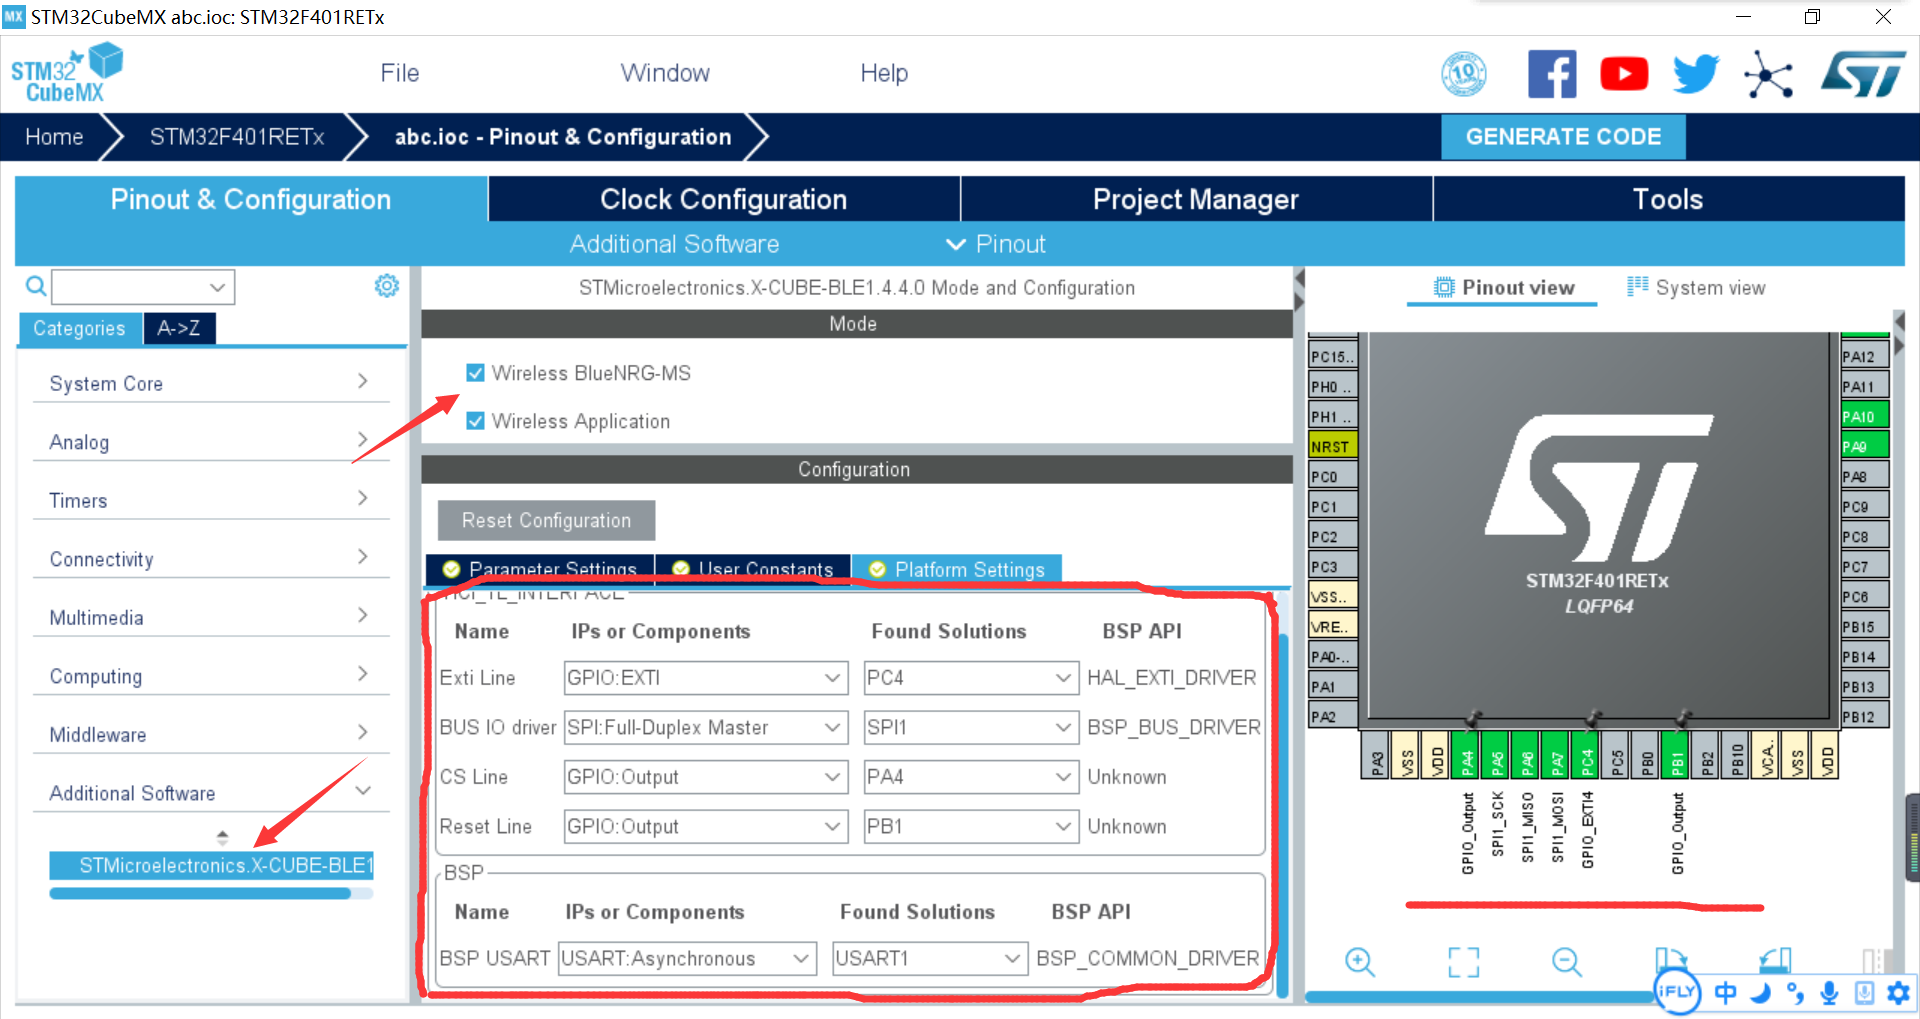
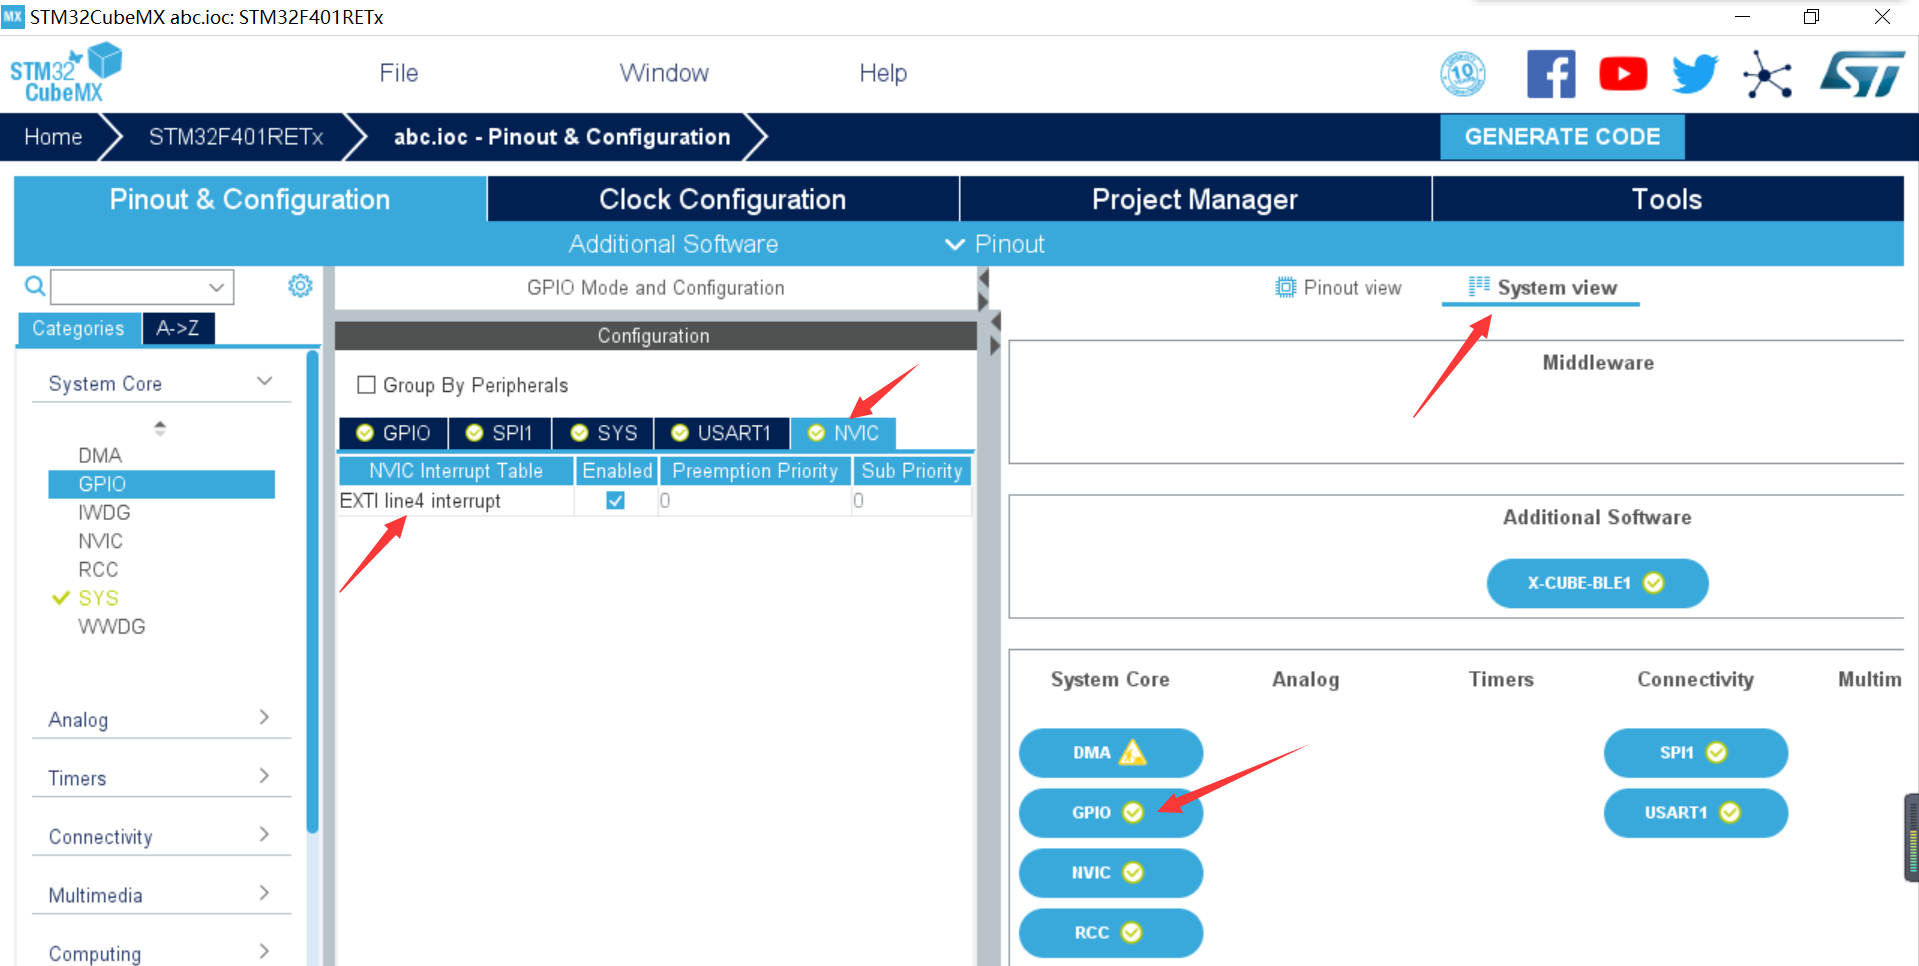
Site updated: 2019-11-06 17:35:07

diff --git a/2019/11/06/Beacon/index.html b/2019/11/06/Beacon/index.html
@@ -7,17 +7,26 @@
   
   <title>Beacon | Hexo</title>
   <meta name="viewport" content="width=device-width, initial-scale=1, maximum-scale=1">
-  <meta name="description" content="STM32Cube Mx蓝牙功能的相关配置一、打开STM32Cube进入页面，在最上方的help中打开Manage embedded software packages，下载STM32F4型号1.24.1版本的固件包，然后再进入STMicroelectronics，下载X_CUBU_BLE1里的最新版本固件包（4.4.0）和X_CUBU_MEMS1的6.2.0固件包。 二、选择芯片点击File里的">
+  <meta name="description" content="STM32Cube Mx蓝牙功能的相关配置一、打开STM32Cube进入页面，在最上方的help中打开Manage embedded software packages，下载STM32F4型号1.24.1版本的固件包，然后再进入STMicroelectronics，下载X_CUBU_BLE1里的最新版本固件包（4.4.0）和X_CUBU_MEMS1的6.2.0固件包。二、选择芯片点击File里的N">
 <meta property="og:type" content="article">
 <meta property="og:title" content="Beacon">
 <meta property="og:url" content="http://CCIT18081430501.github.io/2019/11/06/Beacon/index.html">
 <meta property="og:site_name" content="Hexo">
-<meta property="og:description" content="STM32Cube Mx蓝牙功能的相关配置一、打开STM32Cube进入页面，在最上方的help中打开Manage embedded software packages，下载STM32F4型号1.24.1版本的固件包，然后再进入STMicroelectronics，下载X_CUBU_BLE1里的最新版本固件包（4.4.0）和X_CUBU_MEMS1的6.2.0固件包。 二、选择芯片点击File里的">
+<meta property="og:description" content="STM32Cube Mx蓝牙功能的相关配置一、打开STM32Cube进入页面，在最上方的help中打开Manage embedded software packages，下载STM32F4型号1.24.1版本的固件包，然后再进入STMicroelectronics，下载X_CUBU_BLE1里的最新版本固件包（4.4.0）和X_CUBU_MEMS1的6.2.0固件包。二、选择芯片点击File里的N">
 <meta property="og:locale" content="en">
-<meta property="og:updated_time" content="2019-11-06T09:18:43.951Z">
+<meta property="og:image" content="http://ccit18081430501.github.io/2019/11/06/Beacon/1.png">
+<meta property="og:image" content="http://ccit18081430501.github.io/2019/11/06/Beacon/2.png">
+<meta property="og:image" content="http://ccit18081430501.github.io/2019/11/06/Beacon/3.png">
+<meta property="og:image" content="http://ccit18081430501.github.io/2019/11/06/Beacon/4.png">
+<meta property="og:image" content="http://ccit18081430501.github.io/2019/11/06/Beacon/5.png">
+<meta property="og:image" content="http://ccit18081430501.github.io/2019/11/06/Beacon/6.png">
+<meta property="og:image" content="http://ccit18081430501.github.io/2019/11/06/Beacon/7.png">
+<meta property="og:image" content="http://ccit18081430501.github.io/2019/11/06/Beacon/8.png">
+<meta property="og:updated_time" content="2019-11-06T09:34:36.823Z">
 <meta name="twitter:card" content="summary">
 <meta name="twitter:title" content="Beacon">
-<meta name="twitter:description" content="STM32Cube Mx蓝牙功能的相关配置一、打开STM32Cube进入页面，在最上方的help中打开Manage embedded software packages，下载STM32F4型号1.24.1版本的固件包，然后再进入STMicroelectronics，下载X_CUBU_BLE1里的最新版本固件包（4.4.0）和X_CUBU_MEMS1的6.2.0固件包。 二、选择芯片点击File里的">
+<meta name="twitter:description" content="STM32Cube Mx蓝牙功能的相关配置一、打开STM32Cube进入页面，在最上方的help中打开Manage embedded software packages，下载STM32F4型号1.24.1版本的固件包，然后再进入STMicroelectronics，下载X_CUBU_BLE1里的最新版本固件包（4.4.0）和X_CUBU_MEMS1的6.2.0固件包。二、选择芯片点击File里的N">
+<meta name="twitter:image" content="http://ccit18081430501.github.io/2019/11/06/Beacon/1.png">
   
     <link rel="alternate" href="/atom.xml" title="Hexo" type="application/atom+xml">
   
@@ -86,20 +95,18 @@
     
     <div class="article-entry" itemprop="articleBody">
       
-        <pre><code>STM32Cube Mx蓝牙功能的相关配置</code></pre><p>一、打开STM32Cube<br>进入页面，在最上方的help中打开Manage embedded software packages，下载STM32F4型号1.24.1版本的固件包，然后再进入STMicroelectronics，下载X_CUBU_BLE1里的最新版本固件包（4.4.0）和X_CUBU_MEMS1的6.2.0固件包。</p>
-<p>二、选择芯片<br>点击File里的New Project，进入后在左上方可搜索所需要的芯片型号，大家可根据自己的需要进行选择，我们这里用的是STM32F401RETx。</p>
-<p>三、芯片的配置<br>1.点击Clock Configuration下方的Additional Software，按下图所示进行配置，设置完后点右下方的OK确定。</p>
-<p>2.在System Core的SYS中进行配置</p>
-<p>3.在Connectivity中配置全双工模式和串口的异步通行模式。把SPI1里的Mode的模式改为Full_Duplex Master(全双工模式)，并在其下方的Parameter Settings里配置时钟数。</p>
-<p>在USART1的Mode里选择Asynchronous(异步模式)</p>
-<p>4.在左下角点击Additional Software，进入STMicroelectronics.X_CUBU_BLE1.4.4.0</p>
-<p>5.选择芯片上方的System view里的GPIO</p>
-<p>四、进入工程<br>在Project Manager里设置文件名，文件位置（工程名和 工程存储路径不要用中文，不然容易出错），最后点GENERATE CODE进入工程。</p>
+        <pre><code>STM32Cube Mx蓝牙功能的相关配置</code></pre><p>一、打开STM32Cube<br>进入页面，在最上方的help中打开Manage embedded software packages，下载STM32F4型号1.24.1版本的固件包，然后再进入STMicroelectronics，下载X_CUBU_BLE1里的最新版本固件包（4.4.0）和X_CUBU_MEMS1的6.2.0固件包。<br>二、选择芯片<br>点击File里的New Project，进入后在左上方可搜索所需要的芯片型号，大家可根据自己的需要进行选择，我们这里用的是STM32F401RETx。<br>三、芯片的配置<br>1.点击Clock Configuration下方的Additional Software，按下图所示进行配置，设置完后点右下方的OK确定。<br> <img src="/2019/11/06/Beacon/1.png" alt="图片"><br> <img src="/2019/11/06/Beacon/2.png" alt="图片"></p>
+<p>2.在System Core的SYS中进行配置<br> <img src="/2019/11/06/Beacon/3.png" alt="图片"></p>
+<p>3.在Connectivity中配置全双工模式和串口的异步通行模式。把SPI1里的Mode的模式改为Full_Duplex Master(全双工模式)，并在其下方的Parameter Settings里配置时钟数。<br> <img src="/2019/11/06/Beacon/4.png" alt="图片"></p>
+<p>   在USART1的Mode里选择Asynchronous(异步模式)<br> <img src="/2019/11/06/Beacon/5.png" alt="图片"></p>
+<p>4.在左下角点击Additional Software，进入STMicroelectronics.X_CUBU_BLE1.4.4.0<br> <img src="/2019/11/06/Beacon/6.png" alt="图片"></p>
+<p>5.选择芯片上方的System view里的GPIO<br> <img src="/2019/11/06/Beacon/7.png" alt="图片"></p>
+<p>四、进入工程<br>在Project Manager里设置文件名，文件位置（工程名和 工程存储路径不要用中文，不然容易出错），最后点GENERATE CODE进入工程。<br> <img src="/2019/11/06/Beacon/8.png" alt="图片"></p>
 
       
     </div>
     <footer class="article-footer">
-      <a data-url="http://CCIT18081430501.github.io/2019/11/06/Beacon/" data-id="ck2n2llyh0000awto8rx1cbog" class="article-share-link">Share</a>
+      <a data-url="http://CCIT18081430501.github.io/2019/11/06/Beacon/" data-id="ck2n369s70000swtoalvbmptb" class="article-share-link">Share</a>
       
       
     </footer>

diff --git a/index.html b/index.html
@@ -84,20 +84,18 @@
     
     <div class="article-entry" itemprop="articleBody">
       
-        <pre><code>STM32Cube Mx蓝牙功能的相关配置</code></pre><p>一、打开STM32Cube<br>进入页面，在最上方的help中打开Manage embedded software packages，下载STM32F4型号1.24.1版本的固件包，然后再进入STMicroelectronics，下载X_CUBU_BLE1里的最新版本固件包（4.4.0）和X_CUBU_MEMS1的6.2.0固件包。</p>
-<p>二、选择芯片<br>点击File里的New Project，进入后在左上方可搜索所需要的芯片型号，大家可根据自己的需要进行选择，我们这里用的是STM32F401RETx。</p>
-<p>三、芯片的配置<br>1.点击Clock Configuration下方的Additional Software，按下图所示进行配置，设置完后点右下方的OK确定。</p>
-<p>2.在System Core的SYS中进行配置</p>
-<p>3.在Connectivity中配置全双工模式和串口的异步通行模式。把SPI1里的Mode的模式改为Full_Duplex Master(全双工模式)，并在其下方的Parameter Settings里配置时钟数。</p>
-<p>在USART1的Mode里选择Asynchronous(异步模式)</p>
-<p>4.在左下角点击Additional Software，进入STMicroelectronics.X_CUBU_BLE1.4.4.0</p>
-<p>5.选择芯片上方的System view里的GPIO</p>
-<p>四、进入工程<br>在Project Manager里设置文件名，文件位置（工程名和 工程存储路径不要用中文，不然容易出错），最后点GENERATE CODE进入工程。</p>
+        <pre><code>STM32Cube Mx蓝牙功能的相关配置</code></pre><p>一、打开STM32Cube<br>进入页面，在最上方的help中打开Manage embedded software packages，下载STM32F4型号1.24.1版本的固件包，然后再进入STMicroelectronics，下载X_CUBU_BLE1里的最新版本固件包（4.4.0）和X_CUBU_MEMS1的6.2.0固件包。<br>二、选择芯片<br>点击File里的New Project，进入后在左上方可搜索所需要的芯片型号，大家可根据自己的需要进行选择，我们这里用的是STM32F401RETx。<br>三、芯片的配置<br>1.点击Clock Configuration下方的Additional Software，按下图所示进行配置，设置完后点右下方的OK确定。<br> <img src="/2019/11/06/Beacon/1.png" alt="图片"><br> <img src="/2019/11/06/Beacon/2.png" alt="图片"></p>
+<p>2.在System Core的SYS中进行配置<br> <img src="/2019/11/06/Beacon/3.png" alt="图片"></p>
+<p>3.在Connectivity中配置全双工模式和串口的异步通行模式。把SPI1里的Mode的模式改为Full_Duplex Master(全双工模式)，并在其下方的Parameter Settings里配置时钟数。<br> <img src="/2019/11/06/Beacon/4.png" alt="图片"></p>
+<p>   在USART1的Mode里选择Asynchronous(异步模式)<br> <img src="/2019/11/06/Beacon/5.png" alt="图片"></p>
+<p>4.在左下角点击Additional Software，进入STMicroelectronics.X_CUBU_BLE1.4.4.0<br> <img src="/2019/11/06/Beacon/6.png" alt="图片"></p>
+<p>5.选择芯片上方的System view里的GPIO<br> <img src="/2019/11/06/Beacon/7.png" alt="图片"></p>
+<p>四、进入工程<br>在Project Manager里设置文件名，文件位置（工程名和 工程存储路径不要用中文，不然容易出错），最后点GENERATE CODE进入工程。<br> <img src="/2019/11/06/Beacon/8.png" alt="图片"></p>
 
       
     </div>
     <footer class="article-footer">
-      <a data-url="http://CCIT18081430501.github.io/2019/11/06/Beacon/" data-id="ck2n2llyh0000awto8rx1cbog" class="article-share-link">Share</a>
+      <a data-url="http://CCIT18081430501.github.io/2019/11/06/Beacon/" data-id="ck2n369s70000swtoalvbmptb" class="article-share-link">Share</a>
       
       
     </footer>
@@ -200,7 +198,7 @@
       
     </div>
     <footer class="article-footer">
-      <a data-url="http://CCIT18081430501.github.io/2019/11/05/two/" data-id="ck2n2llzh0006awtok1clvm8v" class="article-share-link">Share</a>
+      <a data-url="http://CCIT18081430501.github.io/2019/11/05/two/" data-id="ck2n369t90006swtowhhbymgu" class="article-share-link">Share</a>
       
       
     </footer>
@@ -238,7 +236,7 @@
       
     </div>
     <footer class="article-footer">
-      <a data-url="http://CCIT18081430501.github.io/2019/11/04/first/" data-id="ck2n2llys0003awtoccgmtva9" class="article-share-link">Share</a>
+      <a data-url="http://CCIT18081430501.github.io/2019/11/04/first/" data-id="ck2n369sk0003swtocwb2e6g7" class="article-share-link">Share</a>
       
       
     </footer>
@@ -274,7 +272,7 @@
       
     </div>
     <footer class="article-footer">
-      <a data-url="http://CCIT18081430501.github.io/2019/10/17/CCIT/" data-id="ck2n2llyn0001awtoc1c1ty1p" class="article-share-link">Share</a>
+      <a data-url="http://CCIT18081430501.github.io/2019/10/17/CCIT/" data-id="ck2n369sd0001swtonmkf69fo" class="article-share-link">Share</a>
       
       
     </footer>
@@ -311,7 +309,7 @@
       
     </div>
     <footer class="article-footer">
-      <a data-url="http://CCIT18081430501.github.io/2019/10/17/a/" data-id="ck2n2llyp0002awtozr74pkyq" class="article-share-link">Share</a>
+      <a data-url="http://CCIT18081430501.github.io/2019/10/17/a/" data-id="ck2n369su0005swto8nwl9j2f" class="article-share-link">Share</a>
       
       
     </footer>
@@ -347,7 +345,7 @@
       
     </div>
     <footer class="article-footer">
-      <a data-url="http://CCIT18081430501.github.io/2019/09/11/helloccit/" data-id="ck2n2llyw0005awto92tcikfc" class="article-share-link">Share</a>
+      <a data-url="http://CCIT18081430501.github.io/2019/09/11/helloccit/" data-id="ck2n369sf0002swtods20qwwu" class="article-share-link">Share</a>
       
       
     </footer>
@@ -396,7 +394,7 @@
       
     </div>
     <footer class="article-footer">
-      <a data-url="http://CCIT18081430501.github.io/2019/09/11/hello-world/" data-id="ck2n2llyt0004awtobagbkdpd" class="article-share-link">Share</a>
+      <a data-url="http://CCIT18081430501.github.io/2019/09/11/hello-world/" data-id="ck2n369sn0004swtoiaext8l3" class="article-share-link">Share</a>
       
       
     </footer>

diff --git a/2019/09/11/hello-world/index.html b/2019/09/11/hello-world/index.html
@@ -103,7 +103,7 @@
       
     </div>
     <footer class="article-footer">
-      <a data-url="http://CCIT18081430501.github.io/2019/09/11/hello-world/" data-id="ck2n2llyt0004awtobagbkdpd" class="article-share-link">Share</a>
+      <a data-url="http://CCIT18081430501.github.io/2019/09/11/hello-world/" data-id="ck2n369sn0004swtoiaext8l3" class="article-share-link">Share</a>
       
       
     </footer>

diff --git a/2019/09/11/helloccit/index.html b/2019/09/11/helloccit/index.html
@@ -90,7 +90,7 @@
       
     </div>
     <footer class="article-footer">
-      <a data-url="http://CCIT18081430501.github.io/2019/09/11/helloccit/" data-id="ck2n2llyw0005awto92tcikfc" class="article-share-link">Share</a>
+      <a data-url="http://CCIT18081430501.github.io/2019/09/11/helloccit/" data-id="ck2n369sf0002swtods20qwwu" class="article-share-link">Share</a>
       
       
     </footer>

diff --git a/2019/11/04/first/index.html b/2019/11/04/first/index.html
@@ -92,7 +92,7 @@
       
     </div>
     <footer class="article-footer">
-      <a data-url="http://CCIT18081430501.github.io/2019/11/04/first/" data-id="ck2n2llys0003awtoccgmtva9" class="article-share-link">Share</a>
+      <a data-url="http://CCIT18081430501.github.io/2019/11/04/first/" data-id="ck2n369sk0003swtocwb2e6g7" class="article-share-link">Share</a>
       
       
     </footer>

diff --git a/2019/10/17/CCIT/index.html b/2019/10/17/CCIT/index.html
@@ -90,7 +90,7 @@
       
     </div>
     <footer class="article-footer">
-      <a data-url="http://CCIT18081430501.github.io/2019/10/17/CCIT/" data-id="ck2n2llyn0001awtoc1c1ty1p" class="article-share-link">Share</a>
+      <a data-url="http://CCIT18081430501.github.io/2019/10/17/CCIT/" data-id="ck2n369sd0001swtonmkf69fo" class="article-share-link">Share</a>
       
       
     </footer>

diff --git a/2019/11/05/two/index.html b/2019/11/05/two/index.html
@@ -189,7 +189,7 @@
       
     </div>
     <footer class="article-footer">
-      <a data-url="http://CCIT18081430501.github.io/2019/11/05/two/" data-id="ck2n2llzh0006awtok1clvm8v" class="article-share-link">Share</a>
+      <a data-url="http://CCIT18081430501.github.io/2019/11/05/two/" data-id="ck2n369t90006swtowhhbymgu" class="article-share-link">Share</a>
       
       
     </footer>

diff --git a/2019/10/17/a/index.html b/2019/10/17/a/index.html
@@ -91,7 +91,7 @@
       
     </div>
     <footer class="article-footer">
-      <a data-url="http://CCIT18081430501.github.io/2019/10/17/a/" data-id="ck2n2llyp0002awtozr74pkyq" class="article-share-link">Share</a>
+      <a data-url="http://CCIT18081430501.github.io/2019/10/17/a/" data-id="ck2n369su0005swto8nwl9j2f" class="article-share-link">Share</a>
       
       
     </footer>
